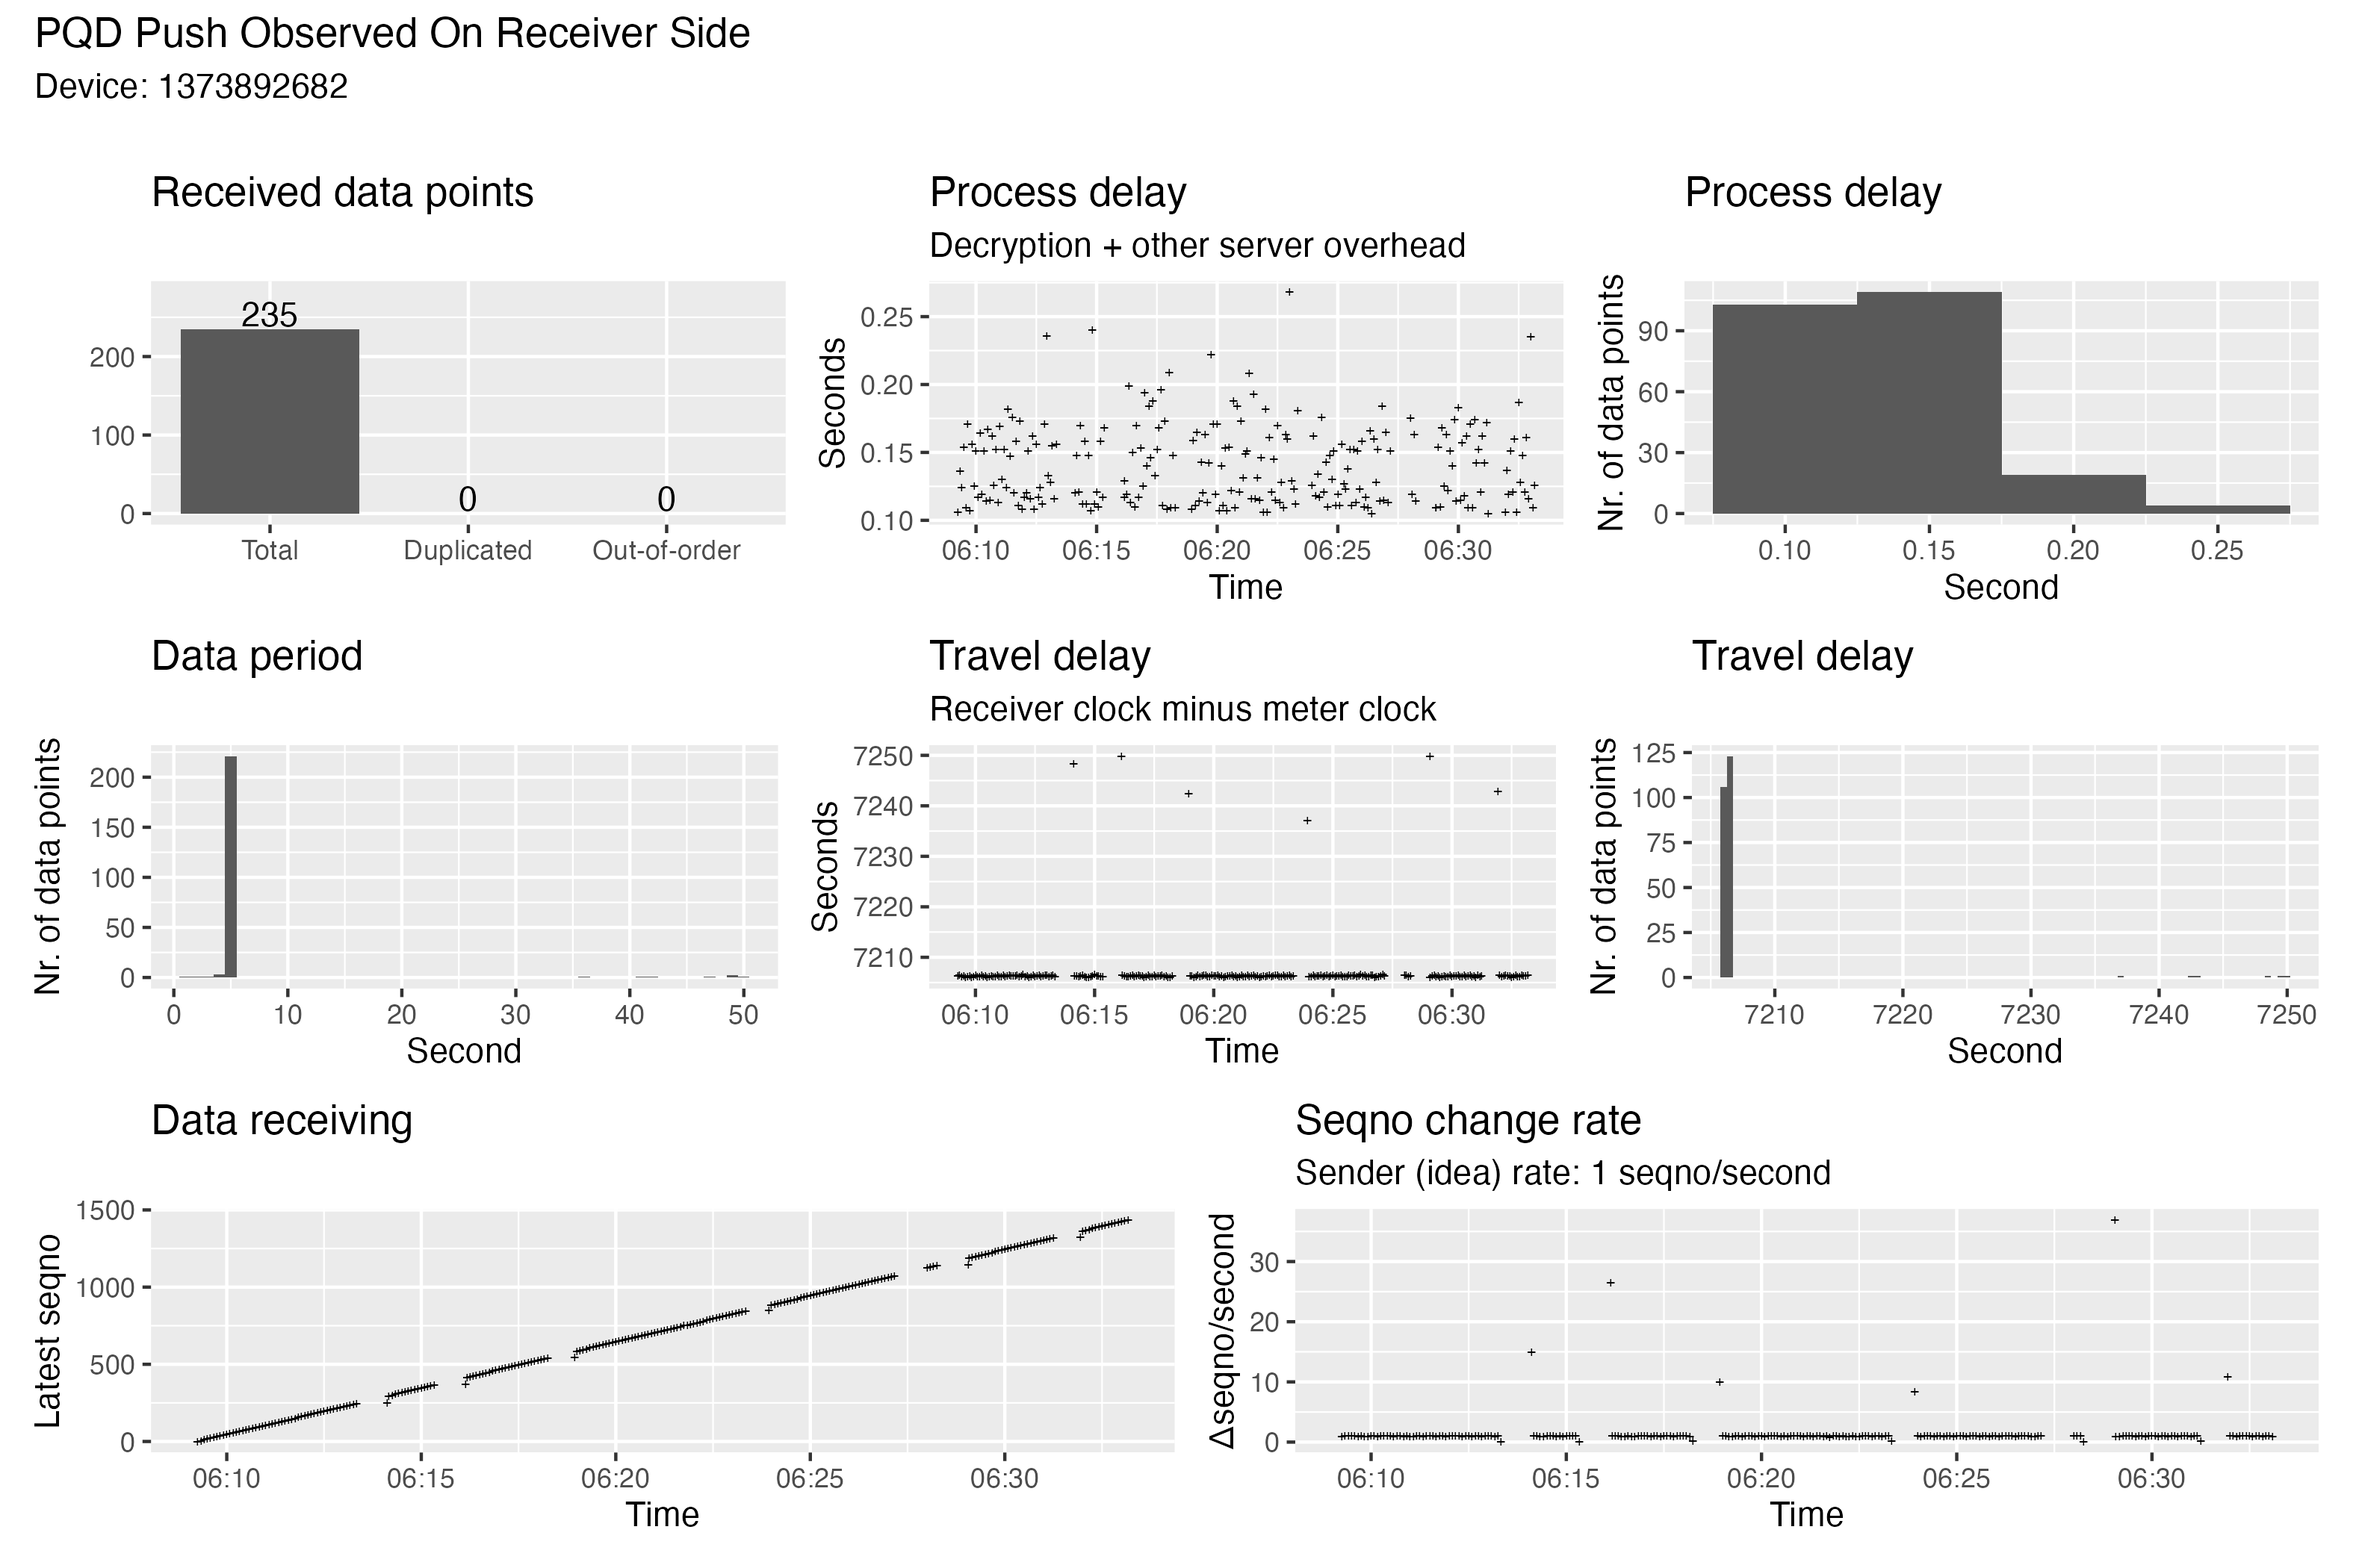
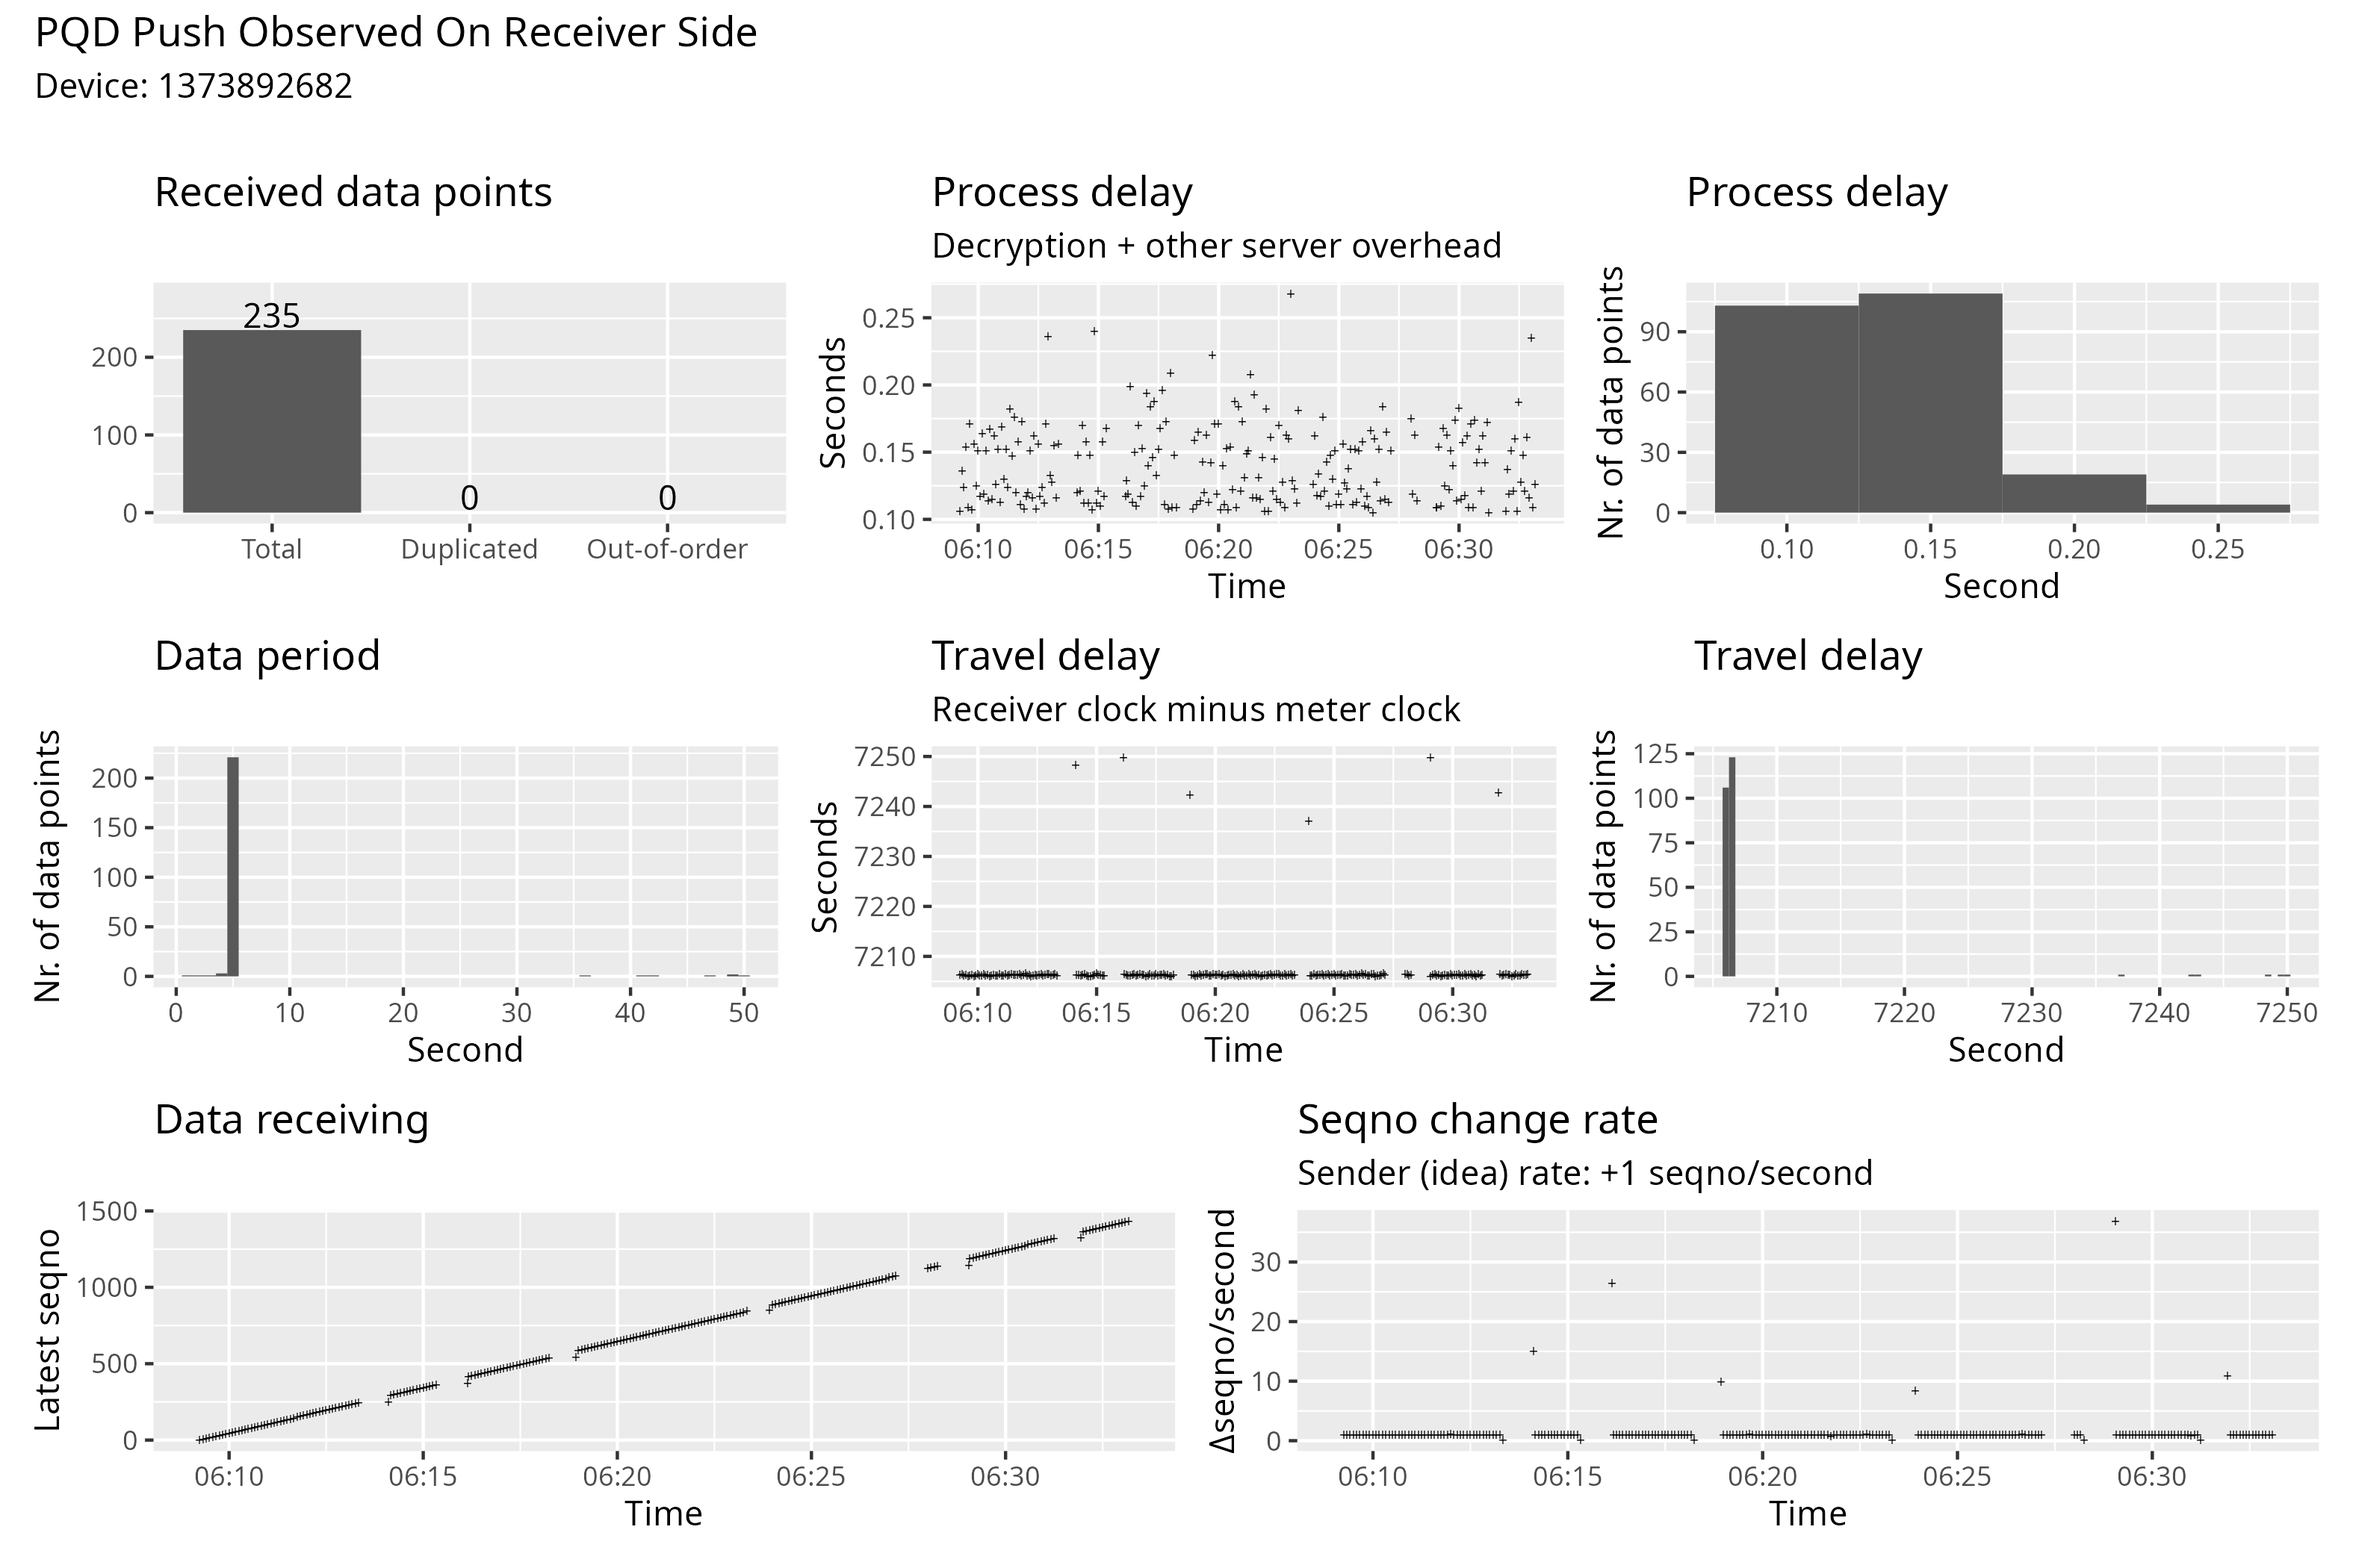
v0.2.1

diff --git a/extra-pqd-recv-log.js b/extra-pqd-recv-log.js
@@ -202,7 +202,7 @@ async function scanAppMgrLog(filename, devId)
     var lineNoBegin;
     var partial = [];
     var events = [];
-    var reqId = -1;
+    var reqId = null;
 
     for await (const line of rl) {
         ++lineNo;
@@ -210,7 +210,7 @@ async function scanAppMgrLog(filename, devId)
             if (partial.length) {
                 const parts = partial[0].split(/ - /);
                 const timestamp = moment(parts[0] + ' ' + '+0000'
-                    , 'YYYY-MM-DD hh:mm:ss,SSS ZZ', true);
+                    , 'YYYY-MM-DD HH:mm:ss,SSS ZZ', true);
                 const e = detectEvent({
                     lineNo: lineNoBegin,
                     timestamp,
@@ -218,14 +218,13 @@ async function scanAppMgrLog(filename, devId)
                 }, devId);
                 if (e) {
                     //console.log(e);
-                    if (e.type == '_procDataMsgAsync') {
+                    if (e.type == '_procDataMsgAsync')
                         reqId = e.reqId;
-                    } else if (e.type == 'data-msg') {
-                        events.push({...e, reqId});
+                    else if (e.type == 'data-msg') {
+                        events.push({...e, reqId });
                         reqId = null;
-                    } else {
+                    } else
                         events.push({...e});
-                    }
                 }
             }
             partial = [line];
@@ -255,7 +254,6 @@ function amendRecvTimeForDataMsg(events)
     const proc = [];
     const amended = [];
     var post = [];
-    var orphanDataMsg = [];
 
     for (const e of events) {
         if (e.type == 'databot-post') {
@@ -273,25 +271,17 @@ function amendRecvTimeForDataMsg(events)
                 post_right.unshift(p);
                 p = post.pop();
             }
-            if (p == undefined) {
-                orphanDataMsg.push(e);
-                amended.push({ ...e, recvTime: e.timestamp });
-            }
+            if (p == undefined)
+                console.warn(`post not found for data-msg at line`
+                    + ` ${e.lineNo} using message id ${e.reqId}`)
             post = [...post, ...post_right];
-        }
-    }
-    if (orphanDataMsg.length) {
-        console.warn(`Found ${post.length} orphan data-msg w/o data-post:`);
-        for (const p of orphanDataMsg) {
-            console.warng(JSON.stringyfy(p, null, 2));
         }
     }
     if (post.length) {
         console.warn(`Found ${post.length} orphan data-post`
             + ` not been processed:`);
-        for (const p of post) {
-            console.warng(JSON.stringyfy(p, null, 2));
-        }
+        for (const p of post)
+            console.warn(` line ${p.lineNo}`);
     }
     return { dataMsg: amended, orphanPost: post };
 }
@@ -340,7 +330,7 @@ const argv = yargs(hideBin(process.argv))
     })
     .alias('h', 'help')
     .alias('v', 'version')
-    .version('0.2.0')
+    .version('0.2.1')
     .parse();
 
 DataMsgType = await loadDataMsgType();
